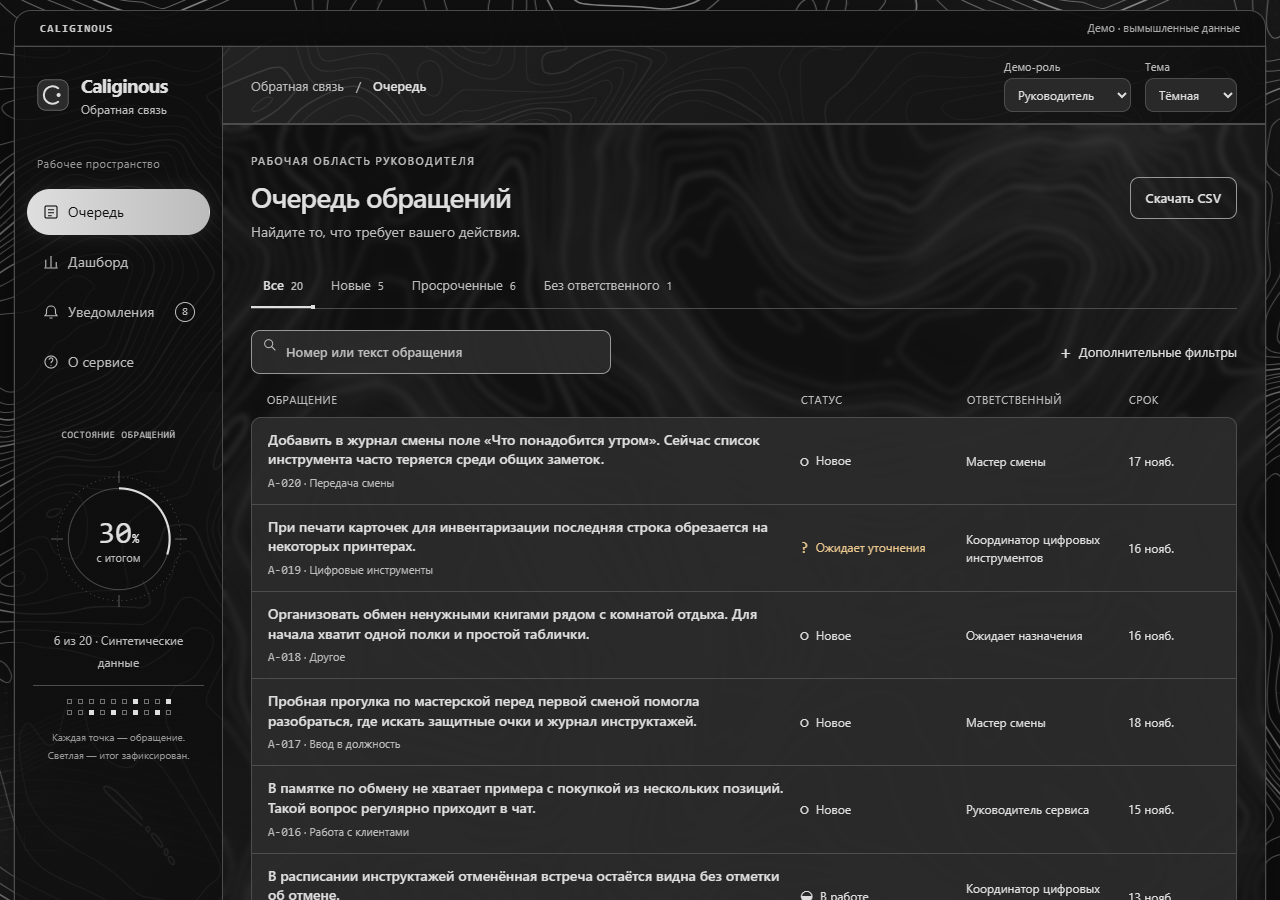
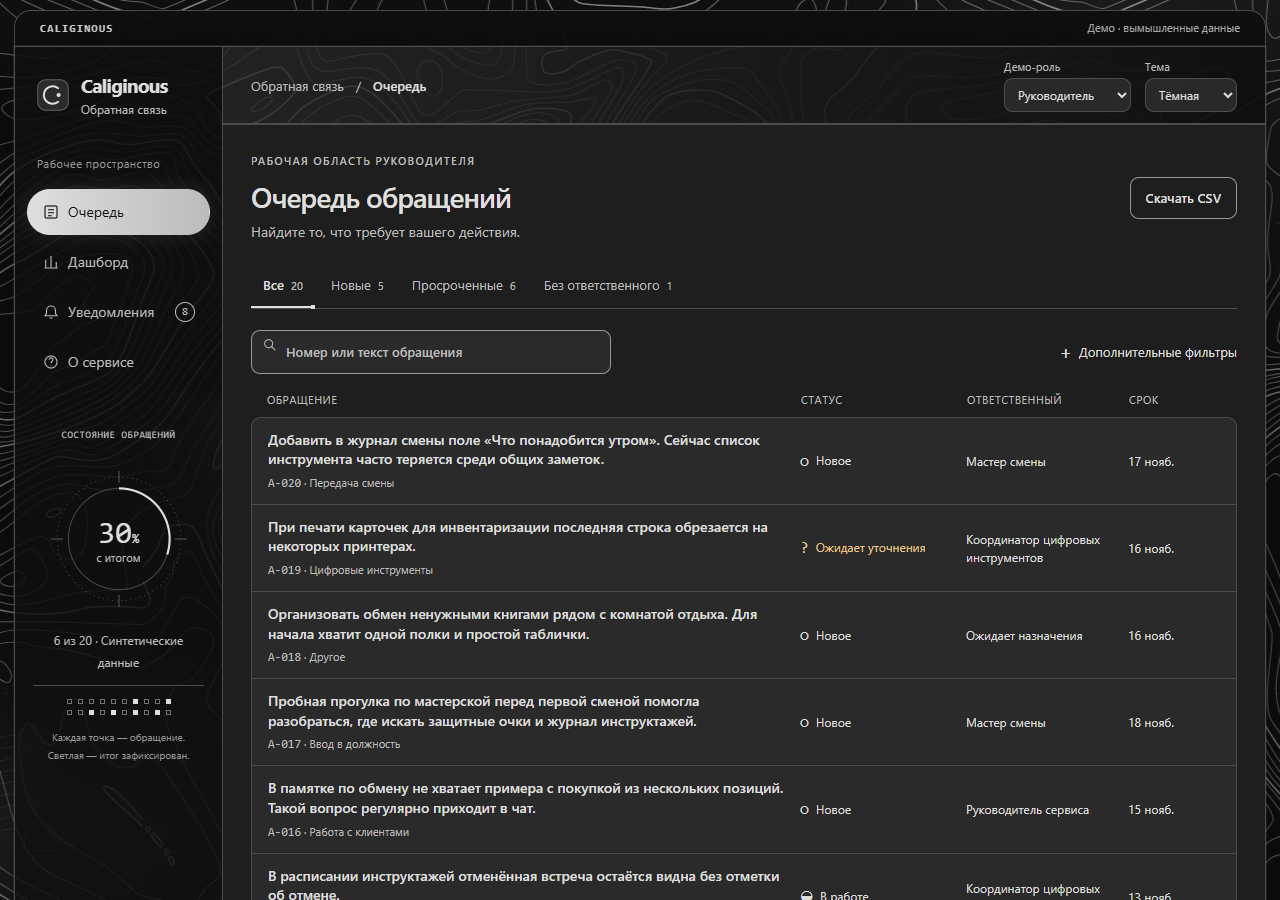
style: give the workspace a solid graphite background

diff --git a/index.html b/index.html
@@ -1,5 +1,5 @@
 <!doctype html>
-<html lang="ru"><head><meta charset="utf-8"><meta name="viewport" content="width=device-width,initial-scale=1"><meta name="color-scheme" content="dark light"><meta name="description" content="Caliginous — интерактивное дизайн-демо сервиса обратной связи сотрудников."><title>Caliginous — обратная связь сотрудников</title><link rel="icon" href="mark.svg" type="image/svg+xml"><link rel="stylesheet" href="prototype.css"><link rel="stylesheet" href="moodboard.css"><link rel="stylesheet" href="dashboard.css"><link rel="stylesheet" href="release.css"><link rel="stylesheet" href="motion.css?v=workspace-glass-60"></head>
+<html lang="ru"><head><meta charset="utf-8"><meta name="viewport" content="width=device-width,initial-scale=1"><meta name="color-scheme" content="dark light"><meta name="description" content="Caliginous — интерактивное дизайн-демо сервиса обратной связи сотрудников."><title>Caliginous — обратная связь сотрудников</title><link rel="icon" href="mark.svg" type="image/svg+xml"><link rel="stylesheet" href="prototype.css"><link rel="stylesheet" href="moodboard.css"><link rel="stylesheet" href="dashboard.css"><link rel="stylesheet" href="release.css"><link rel="stylesheet" href="motion.css?v=workspace-solid"></head>
 <body class="dark">
 <a class="skip" href="#main">Перейти к содержимому</a>
 <div class="prototype-bar"><span><b>CALIGINOUS</b></span><span>Демо · вымышленные данные</span></div>

diff --git a/motion.css b/motion.css
@@ -20,15 +20,12 @@ body.dark .sidebar { background: linear-gradient(180deg, #0f0f0fe0, #0f0f0fb3); 
 body.dark .sidebar::after { display: none; }
 body:not(.dark) .sidebar { background: #f5f5f5c2; }
 
-/* Frost the shared workspace backdrop while keeping its controls and charts sharp. */
-.workspace > main {
-  -webkit-backdrop-filter: blur(3.84px);
-  backdrop-filter: blur(3.84px);
-}
+/* Keep the terrain in the shell and give the working surface a solid color. */
+.workspace > main { background: var(--bg); }
+body.dark .workspace > main { background: #1e1e1e; }
 
 body.dark :is(.panel, .metrics .metric:not(:first-child)) { background: #252525ad; }
 body:not(.dark) :is(.panel, .metrics .metric:not(:first-child)) { background: #f4f4f4b8; }
-.dash-panel, .summarygrid .panel { backdrop-filter: blur(.55px); }
 
 @media (max-width: 560px) {
   body::before { background-size: 660px 660px; }

diff --git a/README.md b/README.md
@@ -22,8 +22,8 @@
 
 ## Дизайн
 
-Тёмная тема использует графит, тонкие HUD-линии и пиксельный индикатор обращений. В светлой теме матовые поверхности, мягкие скругления и графитовые карточки выделяют основные действия и показатели. Под панелями видны линии рельефа. При прокрутке шкалы заполняются по мере появления, а пунктир вокруг индикатора медленно вращается. Анимации можно выключить в **Настройках демо**. Демо учитывает системную настройку уменьшения движения.
+Тёмная тема использует графит, тонкие HUD-линии и пиксельный индикатор обращений. В светлой теме мягкие скругления и графитовые карточки выделяют основные действия и показатели. Рабочая область однотонная, а линии рельефа видны в оболочке сайта. При прокрутке шкалы заполняются по мере появления, а пунктир вокруг индикатора медленно вращается. Анимации можно выключить в **Настройках демо**. Демо учитывает системную настройку уменьшения движения.
 
-![Дашборд с топографическим узором](screenshots/dashboard-motion.png)
+![Дашборд с однотонной рабочей областью](screenshots/dashboard-motion.png)
 
 ![Светлая сводка администратора](screenshots/summary-light.png)
